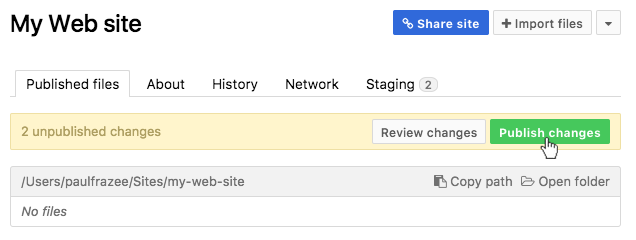
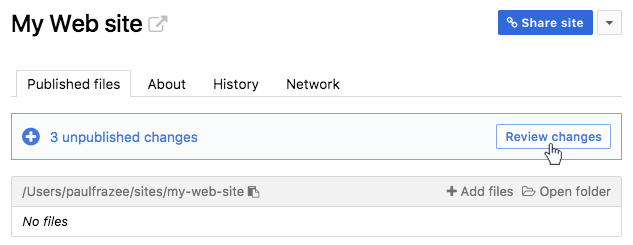
Update using-beaker screenshots

diff --git a/_docs/using-beaker/index.md b/_docs/using-beaker/index.md
@@ -24,7 +24,7 @@ friends and colleagues. P2P networks are fantastic for sharing information
 privately, and they work great for publishing to a broad audience too!
 
 <figure>
-<img data-src="/img/docs/tour-site-peer-count.jpg">
+<img data-src="/img/docs/tour-site-peer-count.png">
 </figure>
 
 </section>
@@ -75,18 +75,18 @@ create a site.
 
 ## Adding files to a site
 
-You can add files to a site by opening the folder in your explorer, then
-copying the files into the directory.
+You can add files to a site by pressing the "Add files" button.
+
+<figure>
+  <img class="screenshot" src="/img/docs/tour-import-files1.png"/>
+</figure>
+
+You can also open the folder in your explorer, and make changes directly.
 
 <figure>
   <img class="screenshot" src="/img/docs/tour-new-site-publish1.png"/>
 </figure>
 
-You can also use the "Import files" button to add files.
-
-<figure>
-  <img class="screenshot" src="/img/docs/tour-import-files1.jpg"/>
-</figure>
 
 </section>
 
@@ -94,10 +94,10 @@ You can also use the "Import files" button to add files.
 
 ## Publishing files and changes
 
-When you're ready to share your files, click "Publish."
+When you're ready to share your files, click "Review changes," and then "Publish."
 
 Even if somebody has the URL of your site, they won't be able to access the
-updates to your files until you "publish" them. This gives you the opportunity
+updates to your files until you publish them. This gives you the opportunity
 to review your changes before they're public.
 
 <figure>
@@ -157,7 +157,7 @@ easy to stay abreast of changes while you work. Turn it on to have the page
 automatically update every time you make a change.
 
 <figure>
-  <img class="screenshot" src="/img/docs/tour-livereloading.jpg"/>
+  <img class="screenshot" src="/img/docs/tour-livereloading.png"/>
 </figure>
 
 </section>
